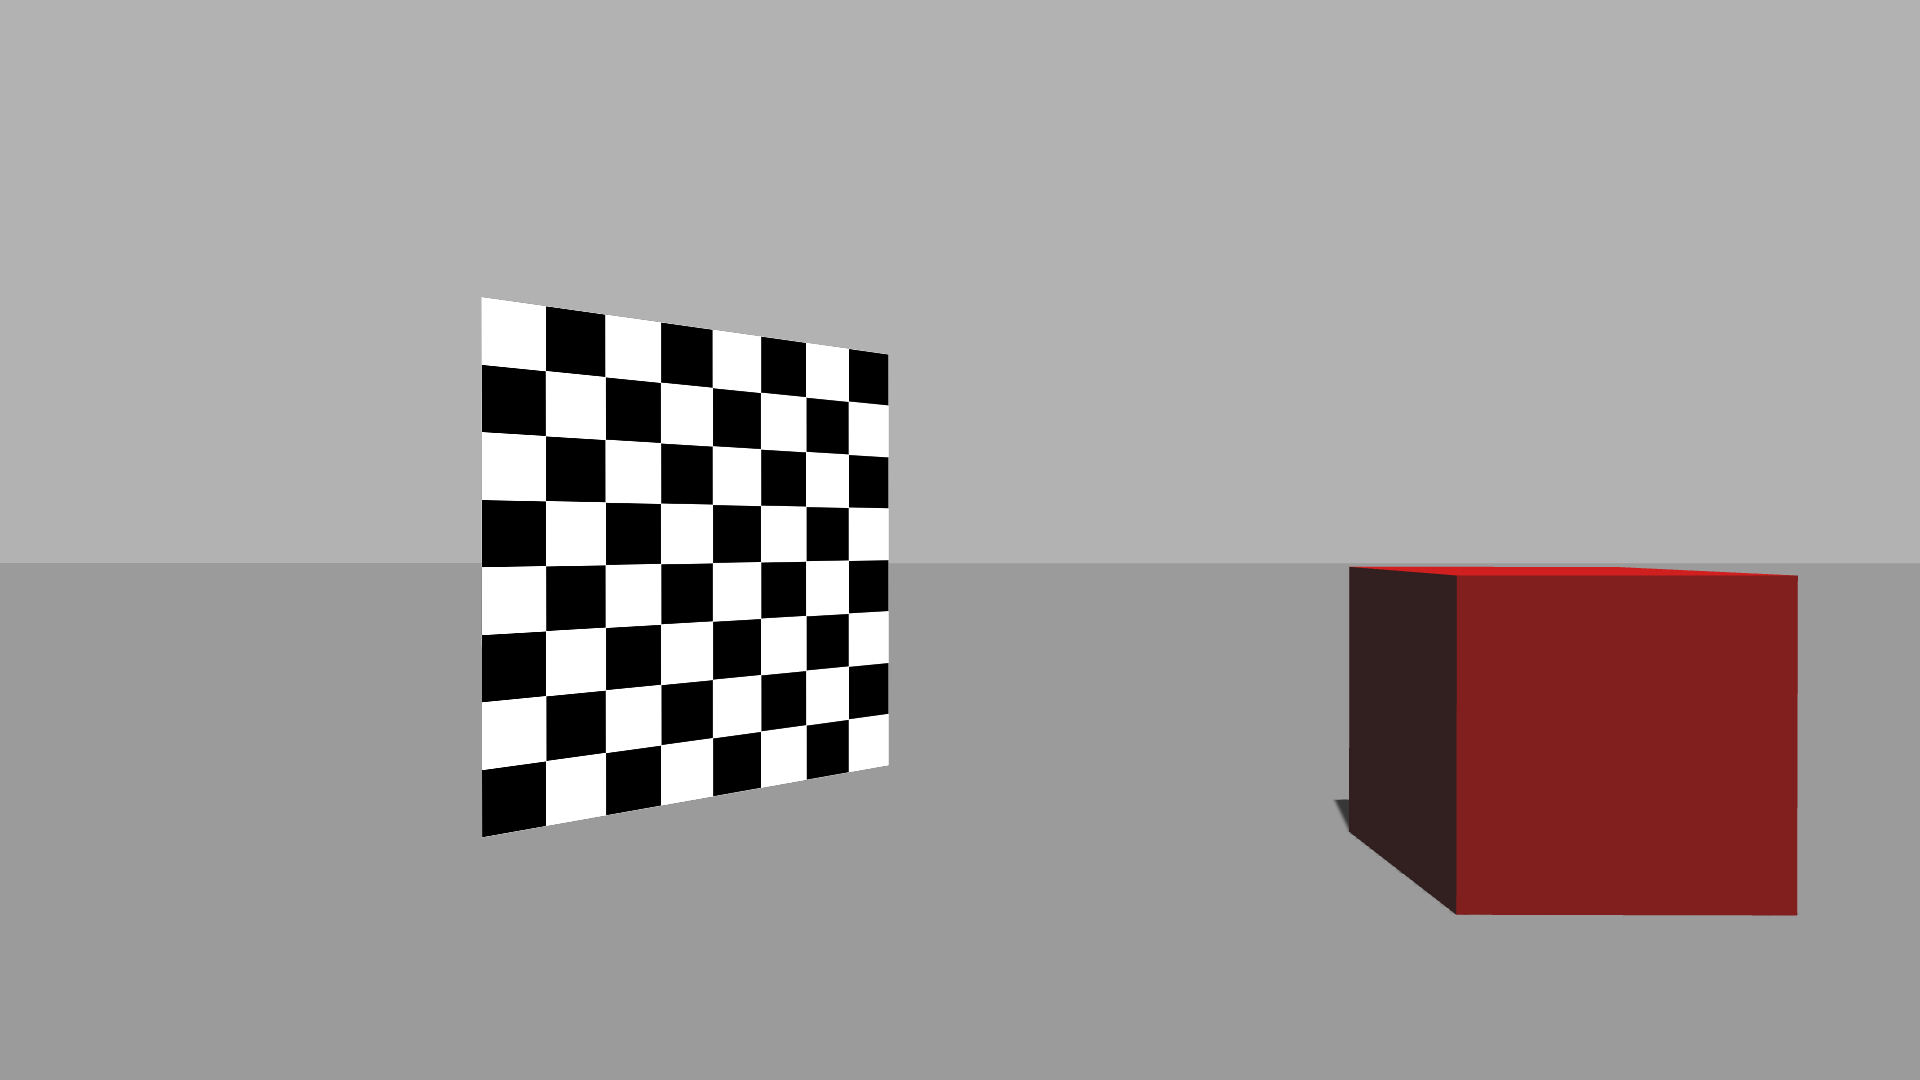
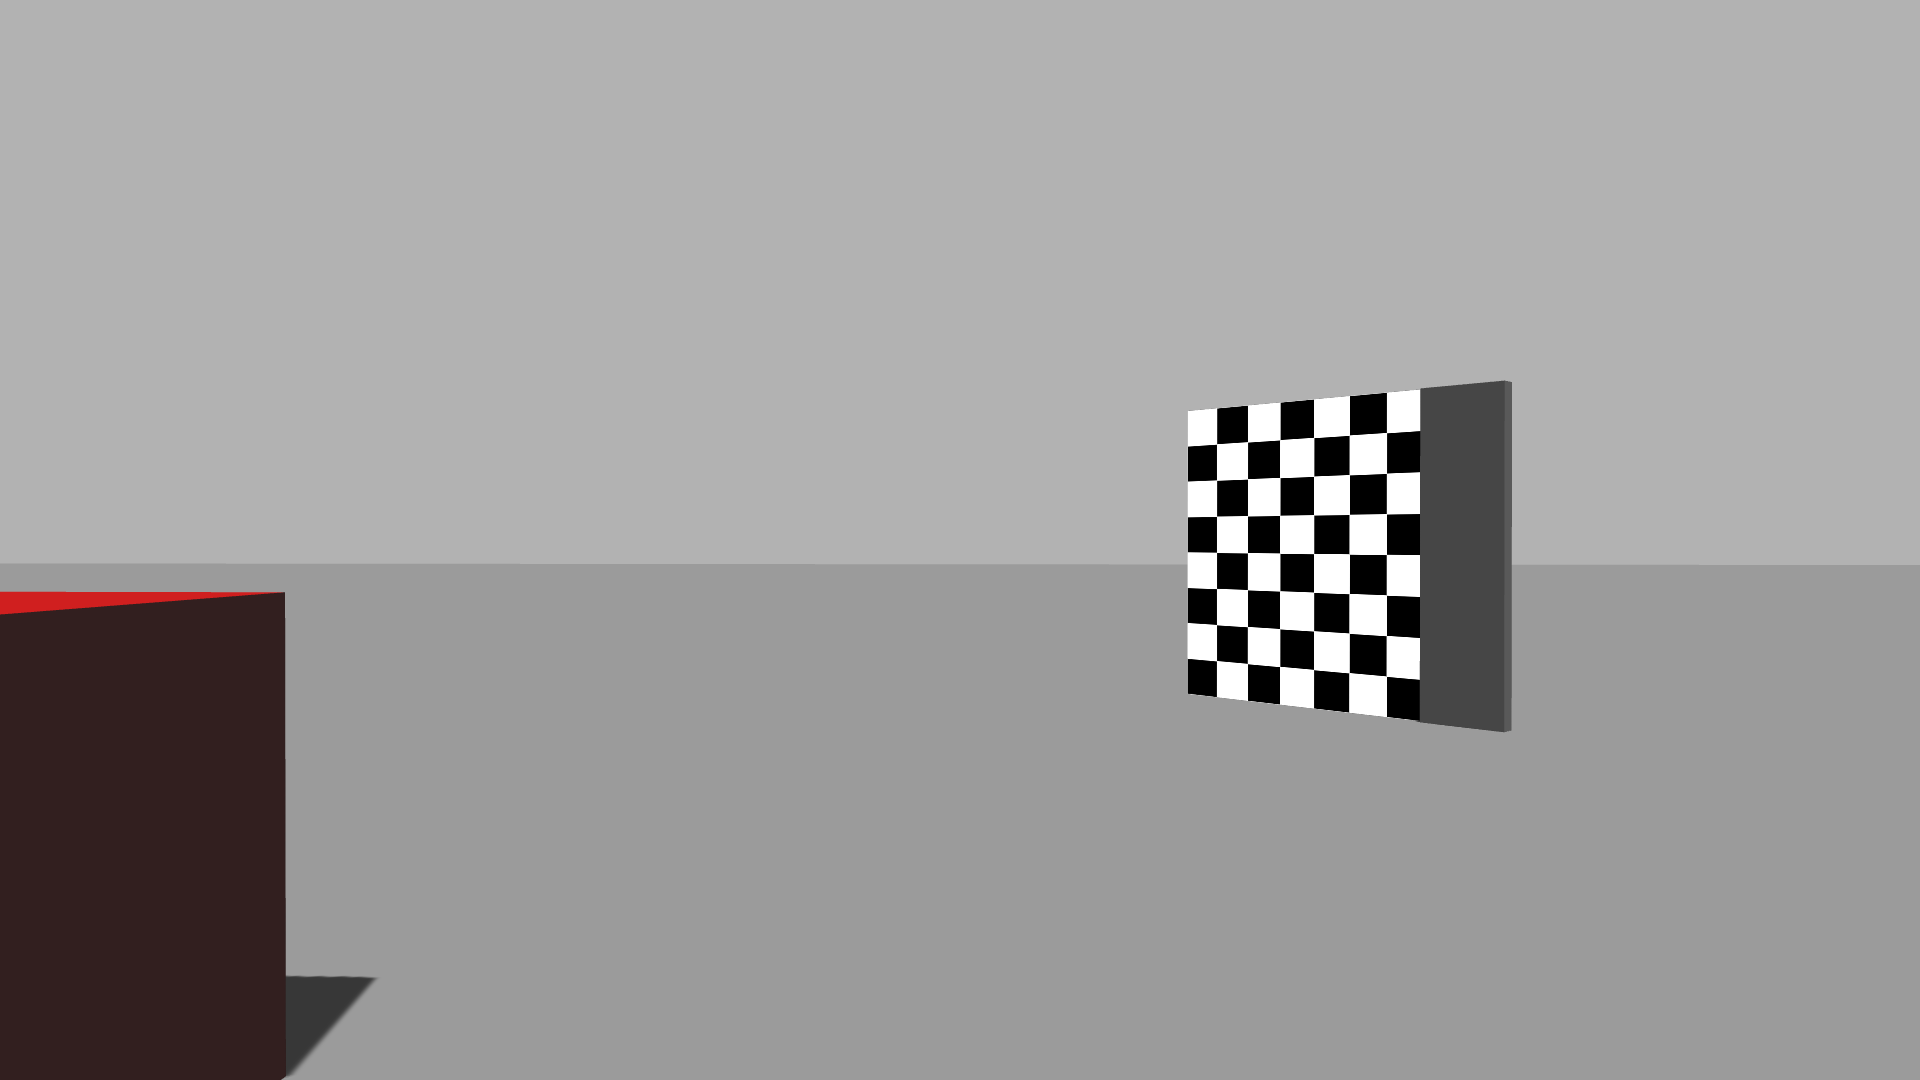
WIP scale estimation

Changed region(s): [[0.5938, 0.3361, 0.9375, 0.8556], [0.25, 0.275, 0.4688, 0.7944], [0.0, 0.55, 0.1875, 1.0]]

diff --git a/src/tester.cpp b/src/tester.cpp
@@ -72,27 +72,35 @@ void Tester::run(VisualOdometry &vo) {
 
         //**========== 1. Feature extraction ==========**//
         //* TEST mode
+        int checkerboard_size[] = {5, 7};
+
         if (vo.pConfig_->test_mode_) {
             std::cout << "\n[test mode] Feature extraction" << std::endl;
 
-            if (run_iter == 1) {  // first run
-                // setFrameKeypoints_pt(pPrev_frame, manual_kp_frame0_);
+            cv::TermCriteria criteria = cv::TermCriteria( cv::TermCriteria::EPS + cv::TermCriteria::COUNT, 40, 0.001 );
 
-                // checkerboard points
-                std::vector<cv::Point2f> prev_corners;
-                cv::findChessboardCorners(pPrev_frame->image_, cv::Size(7, 7), prev_corners);
-                pPrev_frame->keypoints_pt_ = prev_corners;
-                setFrameKeypoints_pt(pPrev_frame, prev_corners);
+            if (run_iter == 1) {  // first run
+                // handmade features
+                setFrameKeypoints_pt(pPrev_frame, manual_kp_frame0_);
+
+                // // checkerboard points
+                // std::vector<cv::Point2f> prev_corners;
+                // cv::findChessboardCorners(pPrev_frame->image_, cv::Size(checkerboard_size[0], checkerboard_size[1]), prev_corners);
+                // cv::cornerSubPix(pPrev_frame->image_, prev_corners, cv::Size(11, 11), cv::Size(-1,-1), criteria);
+                // pPrev_frame->keypoints_pt_ = prev_corners;
+                // setFrameKeypoints_pt(pPrev_frame, prev_corners);
 
                 vo.pUtils_->drawKeypoints(pPrev_frame);
             }
-            // setFrameKeypoints_pt(pCurr_frame, manual_kps_vec_[run_iter]);
+            // handmade features
+            setFrameKeypoints_pt(pCurr_frame, manual_kps_vec_[run_iter]);
 
-            // checkerboard points
-            std::vector<cv::Point2f> curr_corners;
-            cv::findChessboardCorners(pCurr_frame->image_, cv::Size(7, 7), curr_corners);
-            pCurr_frame->keypoints_pt_ = curr_corners;
-            setFrameKeypoints_pt(pCurr_frame, curr_corners);
+            // // checkerboard points
+            // std::vector<cv::Point2f> curr_corners;
+            // cv::findChessboardCorners(pCurr_frame->image_, cv::Size(checkerboard_size[0], checkerboard_size[1]), curr_corners);
+            // cv::cornerSubPix(pCurr_frame->image_, curr_corners, cv::Size(11, 11), cv::Size(-1,-1), criteria);
+            // pCurr_frame->keypoints_pt_ = curr_corners;
+            // setFrameKeypoints_pt(pCurr_frame, curr_corners);
 
             vo.pUtils_->drawKeypoints(pCurr_frame);
         }
@@ -114,12 +122,13 @@ void Tester::run(VisualOdometry &vo) {
         if (vo.pConfig_->test_mode_) {
             std::cout << "\n[test mode] Feature matching" << std::endl;
 
-            // good_matches_test = manual_matches_vec_[run_iter - 1];
+            // handmade feature matches
+            good_matches_test = manual_matches_vec_[run_iter - 1];
 
-            // checkerboard matches
-            for (int i = 0; i < 7*7; i++) {
-                good_matches_test.push_back(TestMatch(i, i));
-            }
+            // // checkerboard matches
+            // for (int i = 0; i < checkerboard_size[0]*checkerboard_size[1]; i++) {
+            //     good_matches_test.push_back(TestMatch(i, i));
+            // }
 
             for (auto match : good_matches_test) {
                 image0_kp_pts.push_back(pPrev_frame->keypoints_pt_[match.queryIdx]);
@@ -176,10 +185,12 @@ void Tester::run(VisualOdometry &vo) {
         if (vo.pConfig_->test_mode_) {
             std::cout << "\n[test mode] Motion estimation" << std::endl;
             vo.pUtils_->recoverPose(vo.pCamera_->intrinsic_, essential_mat, image0_kp_pts, image1_kp_pts, relative_pose, pose_mask);
-            // relative_pose = pUtils_->getGT(pPrev_frame->frame_image_idx_).inverse() * pUtils_->getGT(pCurr_frame->frame_image_idx_);
-            // if (run_iter == 2) {
-            //     // relative_pose.translation() *= 2;
-            // }
+
+            // relative_pose = vo.pUtils_->getGT(pPrev_frame->frame_image_idx_).inverse() * vo.pUtils_->getGT(pCurr_frame->frame_image_idx_);
+
+            if (run_iter == 2) {
+                relative_pose.translation() *= 2;
+            }
         }
         std::cout << "relative pose:\n" << relative_pose.matrix() << std::endl;
 
@@ -909,6 +920,83 @@ void VisualOdometry::triangulate3(cv::Mat camera_Matrix,
     }
 }*/
 
+
+double Tester::estimateScale(VisualOdometry &vo,const std::shared_ptr<Frame> &pPrev_frame, const std::shared_ptr<Frame> &pCurr_frame, std::vector<int> &scale_mask) {
+    std::cout << "----- Tester::estimateScale -----" << std::endl;
+    double scale_ratio = 1.0;
+
+    std::vector<int> prev_frame_covisible_feature_idxs, curr_frame_covisible_feature_idxs;
+
+    if (pPrev_frame->id_ == 0) {
+        return 1.0;
+    }
+
+    std::shared_ptr<Frame> pBefore_prev_frame = pPrev_frame->pPrevious_frame_.lock();
+    for (auto pLandmark : pPrev_frame->landmarks_) {
+
+        std::cout << "landmark [" << pLandmark->id_ << "] observations: " << std::endl;
+        for (auto observation : pLandmark->observations_) {
+            std::cout << "  (" << observation.first << ") " << observation.second << std::endl;
+        }
+
+        if (pLandmark->observations_.find(pCurr_frame->id_) != pLandmark->observations_.end()  // 현재 프레임에서 관측되는 landmark 이면서
+            && pLandmark->observations_.find(pPrev_frame->id_) != pLandmark->observations_.end()  // 이전 프레임에서 관측되는 landmark 이면서
+            && pLandmark->observations_.find(pBefore_prev_frame->id_) != pLandmark->observations_.end()) {  // 전전 프레임에서 관측되는 landmark
+            int curr_frame_feature_idx = pLandmark->observations_.find(pCurr_frame->id_)->second;
+            
+            prev_frame_covisible_feature_idxs.push_back(pLandmark->observations_.find(pPrev_frame->id_)->second);
+            curr_frame_covisible_feature_idxs.push_back(pLandmark->observations_.find(pCurr_frame->id_)->second);
+
+            scale_mask[curr_frame_feature_idx] = 1;
+        }
+    }
+
+
+    //**========== 2. Feature matching ==========**//
+    std::vector<cv::DMatch> good_matches;  // good matchings
+
+    int raw_matches_size = -1;
+    int good_matches_size = -1;
+
+    // extract points from keypoints
+    std::vector<cv::Point2f> image0_kp_pts;
+    std::vector<cv::Point2f> image1_kp_pts;
+
+    // image0 & image1 (matcher matching)
+    std::vector<std::vector<cv::DMatch>> image_matches01_vec;
+    std::vector<std::vector<cv::DMatch>> image_matches10_vec;
+    vo.knnMatch(pBefore_prev_frame->descriptors_, pCurr_frame->descriptors_, image_matches01_vec, 2);  // prev -> curr matches
+    vo.knnMatch(pCurr_frame->descriptors_, pPrev_frame->descriptors_, image_matches10_vec, 2);  // curr -> prev matches
+
+    raw_matches_size = image_matches01_vec.size();
+
+    // Mark II
+    for (int i = 0; i < image_matches01_vec.size(); i++) {
+        if (image_matches01_vec[i][0].distance < image_matches01_vec[i][1].distance * vo.pConfig_->des_dist_thresh_) {  // prev -> curr match에서 좋은가?
+            int image1_keypoint_idx = image_matches01_vec[i][0].trainIdx;
+            if (image_matches10_vec[image1_keypoint_idx][0].distance < image_matches10_vec[image1_keypoint_idx][1].distance * vo.pConfig_->des_dist_thresh_) {  // curr -> prev match에서 좋은가?
+                if (image_matches01_vec[i][0].queryIdx == image_matches10_vec[image1_keypoint_idx][0].trainIdx)
+                    good_matches.push_back(image_matches01_vec[i][0]);
+            }
+        }
+    }
+
+    good_matches_size = good_matches.size();
+
+
+    if (prev_frame_covisible_feature_idxs.size() < 2) {
+        std::cout << "Number of covisible landmarks should be greater than or equal to 2. Currently " << prev_frame_covisible_feature_idxs.size() << "." << std::endl;
+        return 1.0;
+    }
+
+    double prev_frame_landmark_distance = vo.calcCovisibleLandmarkDistance(pPrev_frame, prev_frame_covisible_feature_idxs);
+    double curr_frame_landmark_distance = vo.calcCovisibleLandmarkDistance(pCurr_frame, curr_frame_covisible_feature_idxs);
+
+    // scale_ratio = curr_frame_landmark_distance / prev_frame_landmark_distance;
+    scale_ratio = prev_frame_landmark_distance / curr_frame_landmark_distance;
+
+    return scale_ratio;
+}
 
 
 

diff --git a/src/optimizer.cpp b/src/optimizer.cpp
@@ -39,7 +39,7 @@ void LocalOptimizer::optimizeFrames(std::vector<std::shared_ptr<Frame>> &frames,
             if (landmark_map_itr == landmark_id_idx_map.end()) {  // new landmark
                 landmark_idx = landmarks_cnt;
 
-                initial_estimates.insert<gtsam::Point3>(gtsam::Symbol('l', landmark_idx), gtsam::Point3(pLandmark->point_3d_));
+                initial_estimates.insert(gtsam::Symbol('l', landmark_idx), gtsam::Point3(pLandmark->point_3d_));
                 landmark_idx_id_map.push_back(pLandmark->id_);
                 landmark_id_idx_map[pLandmark->id_] = landmark_idx;
 
@@ -68,12 +68,15 @@ void LocalOptimizer::optimizeFrames(std::vector<std::shared_ptr<Frame>> &frames,
     // gtsam::Pose3 second_pose = gtsam::Pose3(gtsam::Rot3(frames[1]->pose_.rotation()), gtsam::Point3(frames[1]->pose_.translation()));
     // add a prior on the first pose
     const auto pose_noise = gtsam::noiseModel::Diagonal::Sigmas((gtsam::Vector(6) << gtsam::Vector3::Constant(0.3), gtsam::Vector3::Constant(0.1)).finished());  // std of 0.3m for x,y,z, 0.1rad for r,p,y
-    graph.addPrior(gtsam::Symbol('x', 0), first_pose, pose_noise);
+    // graph.addPrior(gtsam::Symbol('x', 0), first_pose, pose_noise);
+    graph.push_back(gtsam::PriorFactor<gtsam::Pose3>(gtsam::Symbol('x', 0), first_pose, pose_noise));
+
     // // add a prior on the second pose (for scale)
     // graph.addPrior(gtsam::Symbol('x', 1), second_pose, pose_noise);
     // add a prior on the first landmark (for scale)
     auto point_noise = gtsam::noiseModel::Isotropic::Sigma(3, 0.1);
-    graph.addPrior(gtsam::Symbol('l', 0), frames[0]->landmarks_[0]->point_3d_, point_noise);
+    // graph.addPrior(gtsam::Symbol('l', 0), frames[0]->landmarks_[0]->point_3d_, point_noise);
+    graph.push_back(gtsam::PriorFactor<gtsam::Point3>(gtsam::Symbol('l', 0), frames[0]->landmarks_[0]->point_3d_, point_noise));
 
     // 3. Optimize
     gtsam::LevenbergMarquardtOptimizer optimizer(graph, initial_estimates);

diff --git a/src/config.cpp b/src/config.cpp
@@ -73,7 +73,9 @@ void Configuration::getImageEntries() {
     while (left_images_itr != std::filesystem::end(left_images_itr)) {
         const std::filesystem::directory_entry left_image_entry = *left_images_itr;
 
-        left_image_entries_temp.push_back(left_image_entry.path());
+        if (!left_image_entry.is_directory()) {
+            left_image_entries_temp.push_back(left_image_entry.path());
+        }
 
         left_images_itr++;
         frame_cnt++;

diff --git a/include/tester.hpp b/include/tester.hpp
@@ -55,6 +55,7 @@ public:
                                     const cv::Mat &mask,
                                     const std::vector<Eigen::Vector3d> &landmark_points_3d);
 
+    double estimateScale(VisualOdometry &vo, const std::shared_ptr<Frame> &pPrev_frame, const std::shared_ptr<Frame> &pCurr_frame, std::vector<int> &scale_mask);
 
     std::vector<cv::Point2f> manual_kp_frame0_;
     std::vector<cv::Point2f> manual_kp_frame1_;
